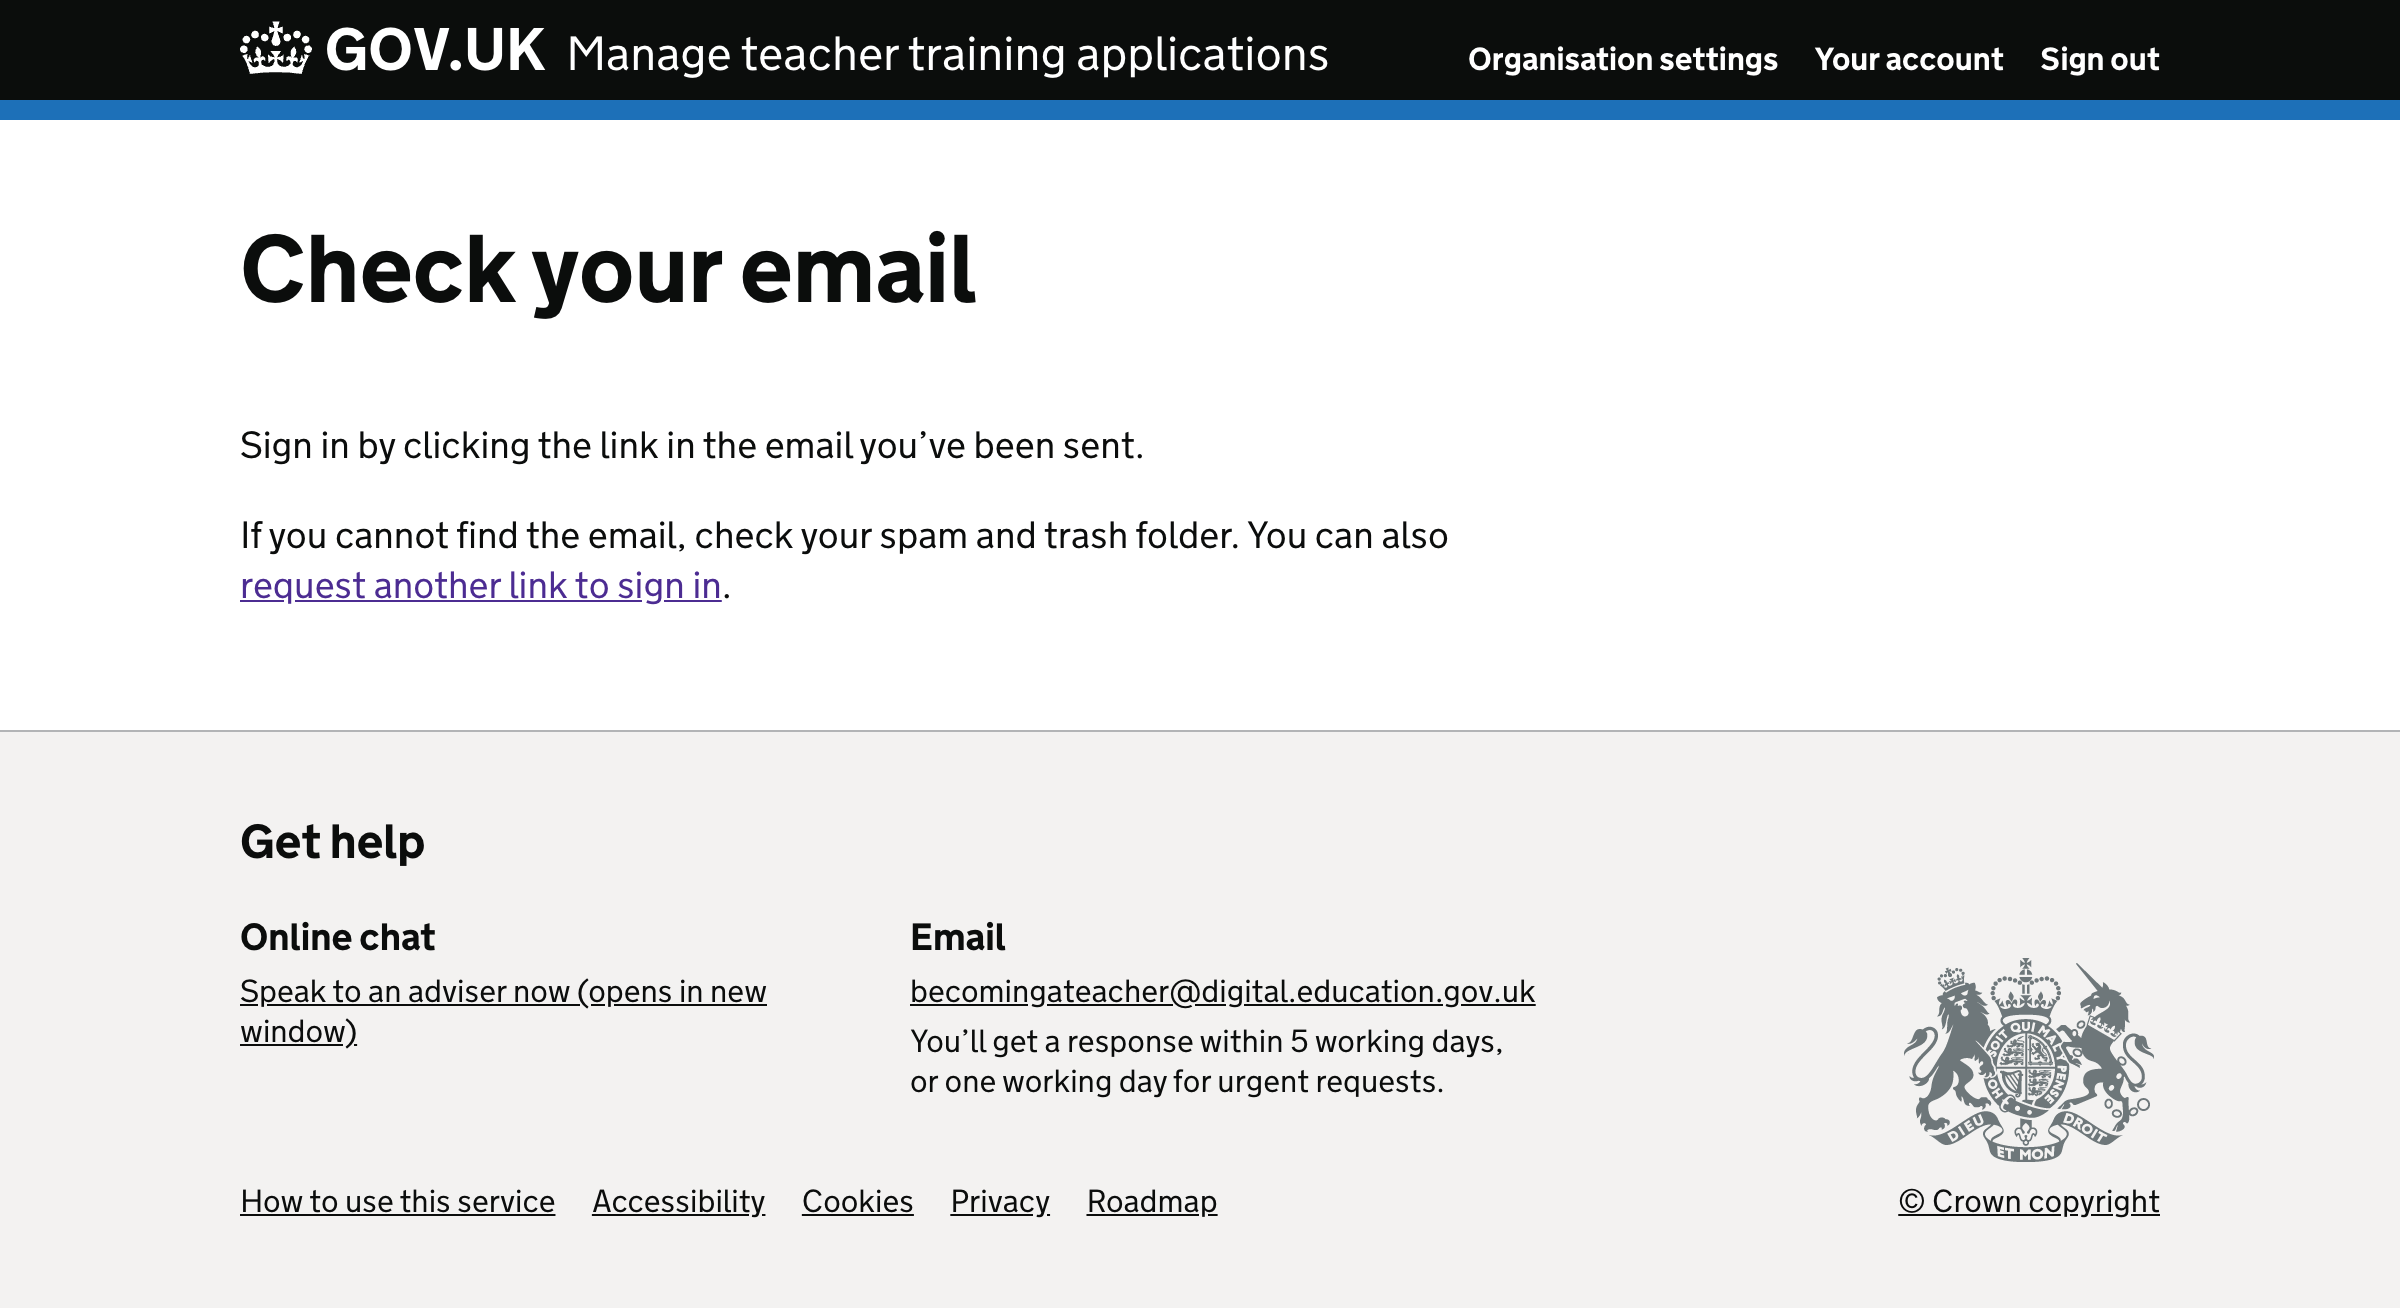
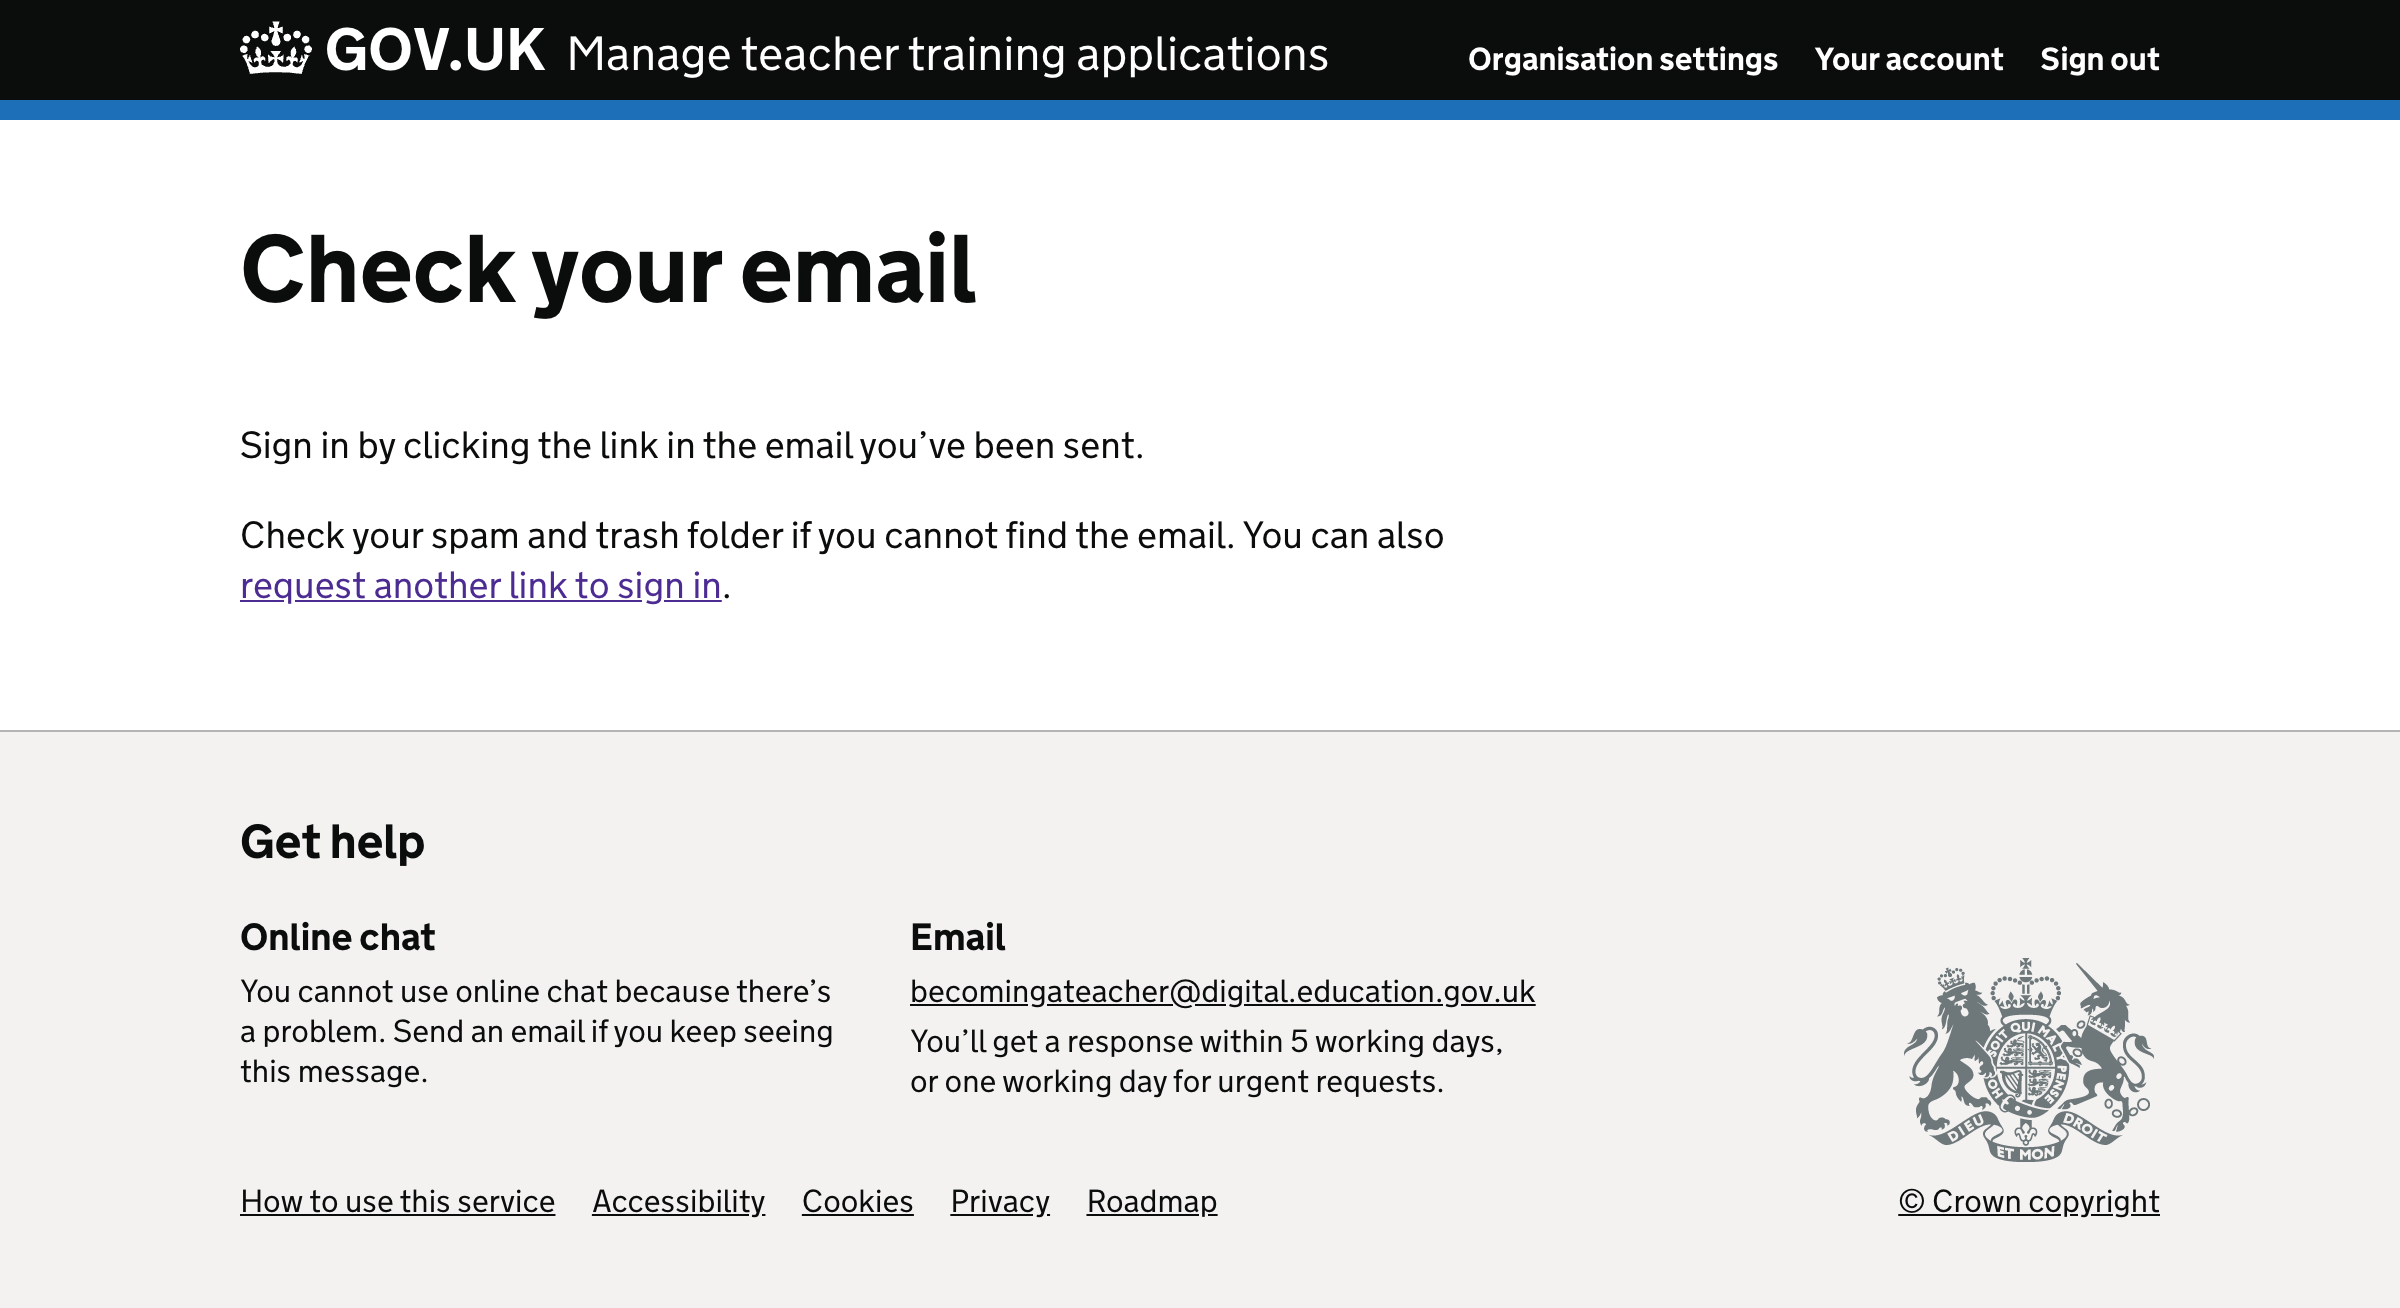
2i

Changed region(s): [[0.0938, 0.7339, 0.3438, 0.8257], [0.0938, 0.3976, 0.625, 0.4281]]

diff --git a/app/posts/manage-teacher-training-applications/2022-01-28-changes-to-the-sign-in-flow-when-dfe-sign-in-is-unavailable.md b/app/posts/manage-teacher-training-applications/2022-01-28-changes-to-the-sign-in-flow-when-dfe-sign-in-is-unavailable.md
@@ -51,4 +51,4 @@ We also updated the content under the form titled “Get an account” to match 
 We improved the content on the confirmation page to be clearer by changing:
 
 - the first sentence from “We’ve sent you an email. Click on the link to confirm your address and return to this service.” to say “Sign in by clicking the link in the email you’ve been sent.”
-- the second sentence used to say “If our email does not arrive within 5 minutes, check your spam and trash folder, or [try again].” to “If you cannot find the email, check your spam and trash folder. You can also [request another link to sign in].”
+- the second sentence used to say “If our email does not arrive within 5 minutes, check your spam and trash folder, or [try again].” to “Check your spam and trash folder if you cannot find the email. You can also [request another link to sign in].”
